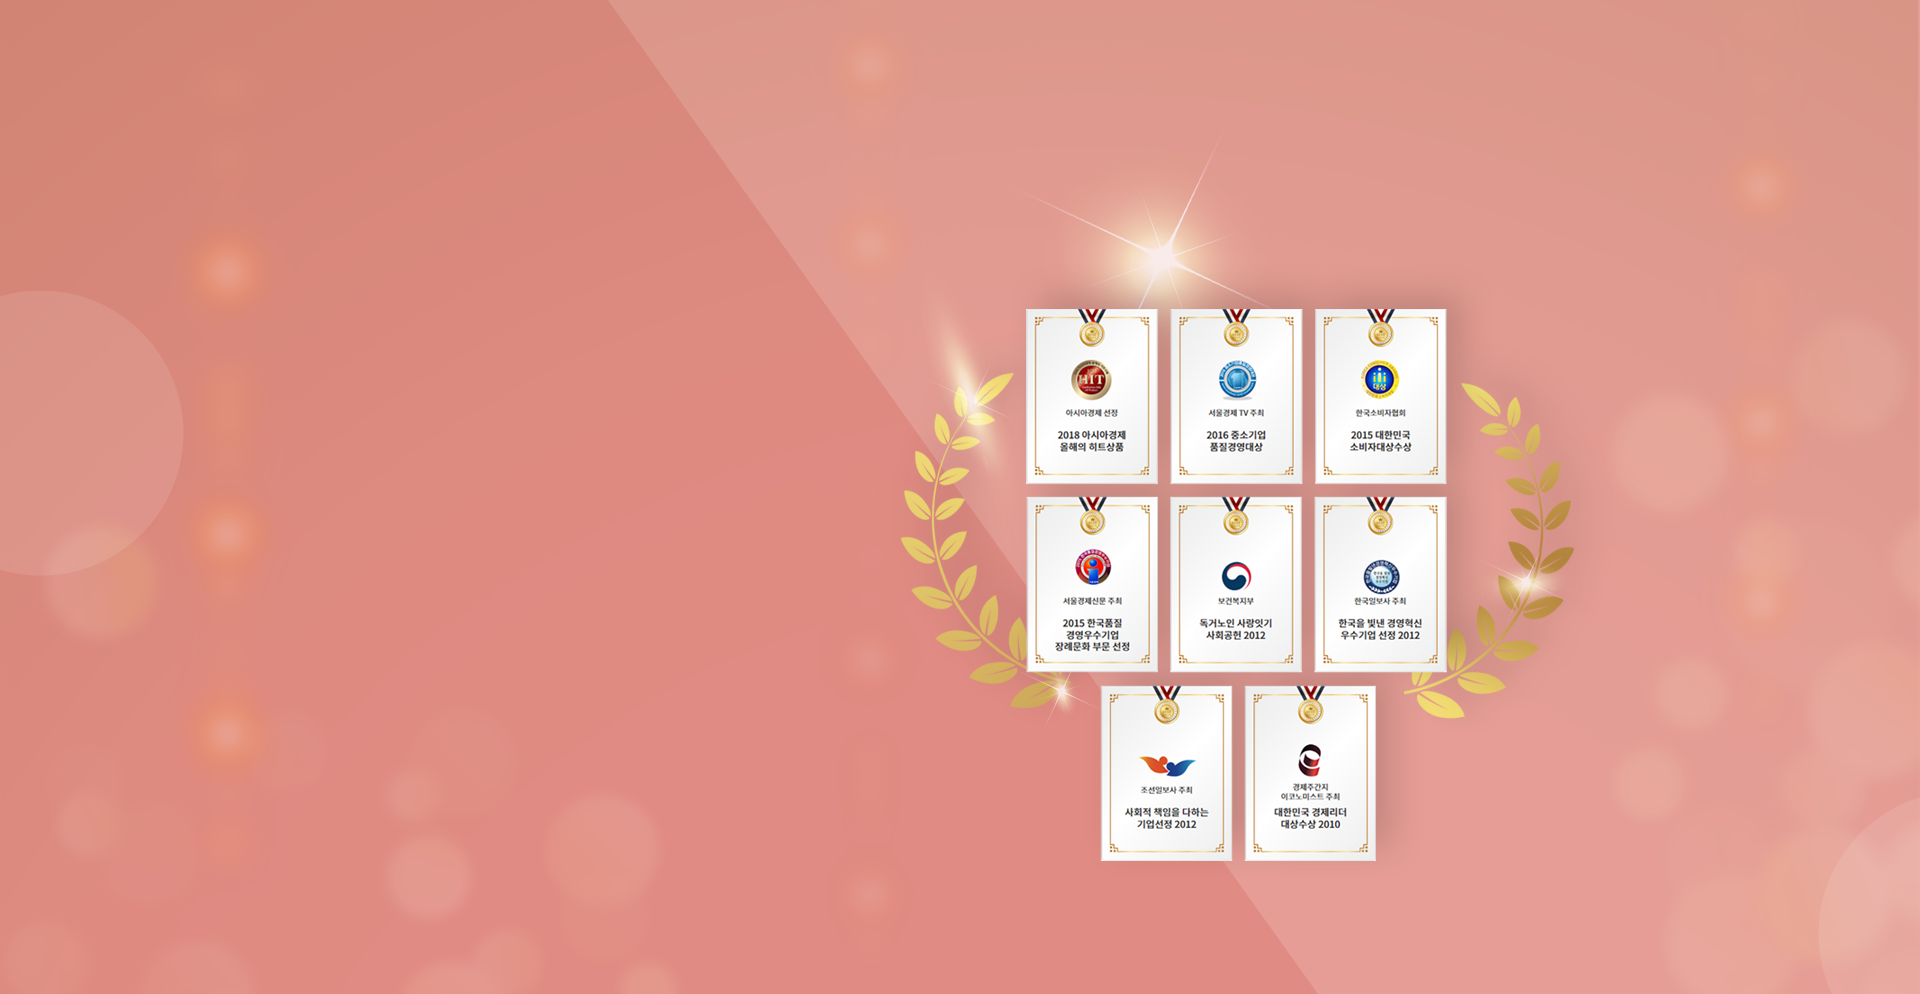
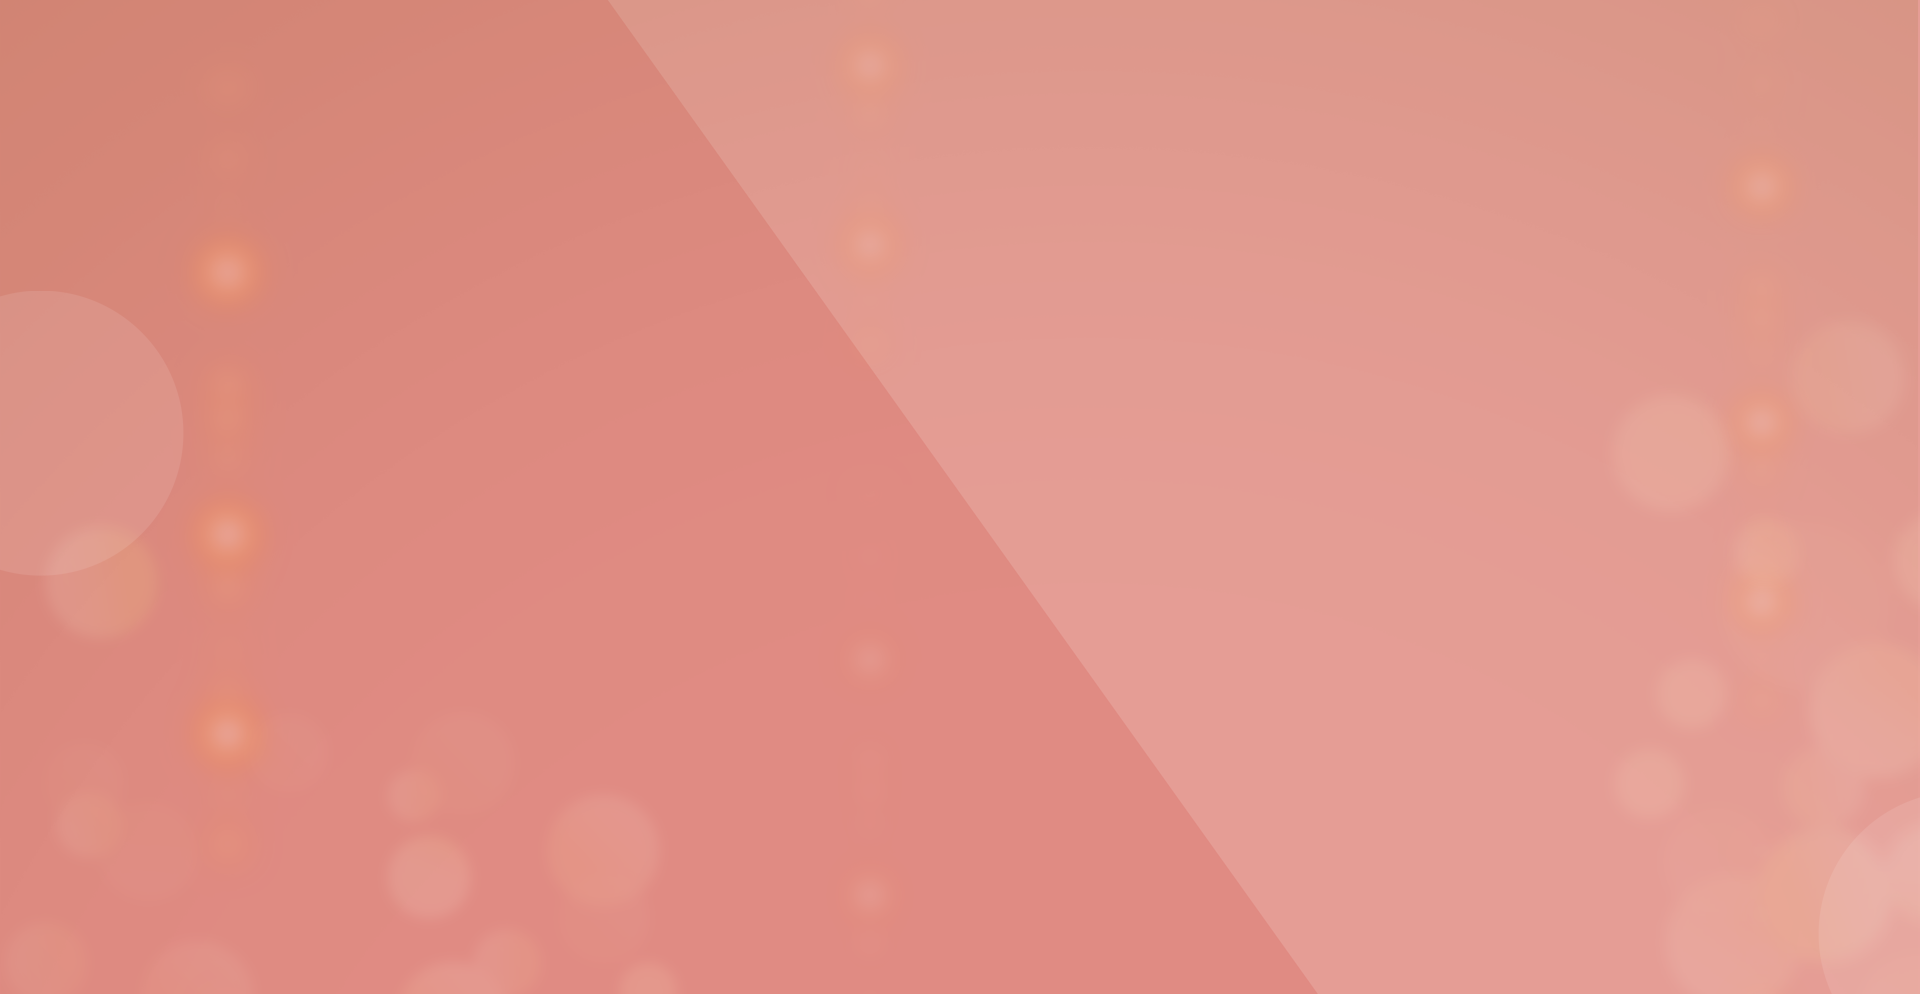
visual 영역 slider 추가

Changed region(s): [[0.4688, 0.1871, 0.8125, 0.8732]]

diff --git a/src/html/index.html b/src/html/index.html
@@ -21,14 +21,15 @@
 	<link rel="stylesheet" href="../css/styles.css">
 	<link rel="stylesheet" href="../css/main.css">
 	<script src="https://unpkg.com/swiper/swiper-bundle.min.js"></script>
+	<script src="https://code.jquery.com/jquery-3.5.1.js" integrity="sha256-QWo7LDvxbWT2tbbQ97B53yJnYU3WhH/C8ycbRAkjPDc=" crossorigin="anonymous"></script>
 </head>
 
 <body>
 	<header class="header">
 		<h1 class="logo">
 			<a href="index.html">
-				<img src="../../assets/images/logo/logo-w-aplus.png" alt="A⁺라이프" />
 				<img src="../../assets/images/logo/logo-w-hoydam.png" alt="e효담상조" />
+				<img src="../../assets/images/logo/logo-w-aplus.png" alt="A⁺라이프" />
 			</a>
 		</h1>
 		<nav class="gnb">
@@ -107,33 +108,36 @@
 					</div>
 					<div class="swiper-slide">
 						<div class="con-wrap">
-							<img src="../../assets/images/visual/slide-main-copy1.png" alt="가장튼튼한회사 자본금 255억 지급여력비율 158%">
-							<img src="../../assets/images/visual/slide-main-obj1.png" alt="e효담 홍보모델 길용우">
+							<img src="../../assets/images/visual/slide-main-copy2.png" alt="가장 정직한 회사 노잣돈 / 수고비 절대 받지 않습니다. 후불계 업계 최고 5대 품질 보증제 실시">
+							<img src="../../assets/images/visual/slide-main-obj2.png" alt="2018 아시아 경제 올해의 희트상품, 2016 중소기업 품질경영대상, 2015 대한민국 소비자대상수상, 2015 한국품질 경영 우수기업 장례문화부분 선정, 독거노인 사랑잇기 사회공헌 2012, 한국을 빛낸 경영혁신 우수기업 선정 2012, 사회적 책임을 다하는 기업선정 2012, 대한민국 경제리더 대상수상 2012">
 						</div>
 					</div>
 					<div class="swiper-slide">
 						<div class="con-wrap">
-							<img src="../../assets/images/visual/slide-main-copy1.png" alt="가장튼튼한회사 자본금 255억 지급여력비율 158%">
-							<img src="../../assets/images/visual/slide-main-obj1.png" alt="e효담 홍보모델 길용우">
+							<img src="../../assets/images/visual/slide-main-copy3.png" alt="가장 경제적인 회사 메뉴판 서비스로 30% 이상 식사비 절감">
+							<img src="../../assets/images/visual/slide-main-obj3.png" alt="메뉴 [1.커피, 음료 2.주류 3.다과류 4.식사류 5.풀세트]">
 						</div>
 					</div>
 					<div class="swiper-slide">
 						<div class="con-wrap">
-							<img src="../../assets/images/visual/slide-main-copy1.png" alt="가장튼튼한회사 자본금 255억 지급여력비율 158%">
-							<img src="../../assets/images/visual/slide-main-obj1.png" alt="e효담 홍보모델 길용우">
+							<img src="../../assets/images/visual/slide-main-copy4.png" alt="가장 믿을만한 회사 고객은 거짓말을 하지 않습니다. VIP 및 단체장과 250여개 기업으로부터 인정받은 최고의 의전품질">
+							<img src="../../assets/images/visual/slide-main-obj4.png" alt="">
 						</div>
 					</div>
 				</div>
+				<div class="swiper-pagination"></div>
 			</div>
-			<div class="customer-list con-wrap swiper-container">
-				<ul class="swiper-wrapper">
-					<li class="swiper-slide"><img src="../../assets/images/logo/samsung.png" alt="삼성전자" /></li>
-					<li class="swiper-slide"><img src="../../assets/images/logo/kia.png" alt="기아자동차" /></li>
-					<li class="swiper-slide"><img src="../../assets/images/logo/kepco.png" alt="한국전력공사" /></li>
-					<li class="swiper-slide"><img src="../../assets/images/logo/samsung.png" alt="삼성전자" /></li>
-					<li class="swiper-slide"><img src="../../assets/images/logo/kia.png" alt="기아자동차" /></li>
-					<li class="swiper-slide"><img src="../../assets/images/logo/kepco.png" alt="한국전력공사" /></li>
-				</ul>
+			<div class="customer-list con-wrap">
+				<div class="swiper-container">
+					<ul class="swiper-wrapper">
+						<li class="swiper-slide"><img src="../../assets/images/logo/samsung.png" alt="삼성전자" /></li>
+						<li class="swiper-slide"><img src="../../assets/images/logo/kia.png" alt="기아자동차" /></li>
+						<li class="swiper-slide"><img src="../../assets/images/logo/kepco.png" alt="한국전력공사" /></li>
+						<li class="swiper-slide"><img src="../../assets/images/logo/samsung.png" alt="삼성전자" /></li>
+						<li class="swiper-slide"><img src="../../assets/images/logo/kia.png" alt="기아자동차" /></li>
+						<li class="swiper-slide"><img src="../../assets/images/logo/kepco.png" alt="한국전력공사" /></li>
+					</ul>
+				</div>
 			</div>
 			<div class="achievements-list con-wrap">
 				<ul class="">
@@ -439,6 +443,6 @@
 			</ul>
 		</div>
 	</aside>
-	<script src="src/js/index.js"></script>
+	<script src="../js/main.js"></script>
 </body>
 </html>

diff --git a/src/css/main.css b/src/css/main.css
@@ -12,15 +12,34 @@
 .visual-slider .swiper-slide .con-wrap{
     position: relative;
 }
+.visual-slider .swiper-slide .con-wrap{
+    height: 100%;
+}
 .visual-slider .swiper-slide img{
     position: absolute;
+    opacity: 0;
+    transition: .8s ease .6s;
 }
+
 .visual-slider .swiper-slide img:first-child{
     left: 0;
     top: 279px;
+    z-index: 1;
+    transition-delay: 1s;
 }
 .visual-slider .swiper-slide img:last-child{
     right: 0;
+    bottom: -40px;
+    transition-duration: 1.5s;
+}
+.visual-slider .swiper-slide-active img {
+    opacity: 1;
+}
+.visual-slider .swiper-slide-active img:first-child{
+    left: 40px;
+}
+.visual-slider .swiper-slide-active img:last-child{
+    bottom: 0;
 }
 .visual-slider .swiper-slide:nth-child(1){
     background-image: url(../../assets/images/bg/bg-main-slide1.png);
@@ -34,11 +53,33 @@
 .visual-slider .swiper-slide:nth-child(4){
     background-image: url(../../assets/images/bg/bg-main-slide4.png);
 }
+.visual-slider .swiper-pagination{
+    position: absolute;
+    bottom: 336px;
+    text-align: left;
+    width: 1280px;
+    padding: 0 40px;
+    left: 50%;
+    transform: translateX(-50%);
+}
+.visual-slider .swiper-pagination span{
+    border-radius: 1px;
+    background: #fff;
+    width: 29px;
+    height: 3px;
+    margin: 0;
+    margin-right: 3px;
+}
 .customer-list{
     position: absolute;
     bottom: 208px;
     left: 50%;
     transform: translateX(-50%);
+    z-index: 10;
+}
+.customer-list .swiper-container{
+    width: 640px;
+    margin: 0;
 }
 .achievements-list{
     margin-top: -61px;

diff --git a/src/css/styles.css b/src/css/styles.css
@@ -39,6 +39,27 @@
     left: 50%;
     top: 50%;
     transform: translate(-50%, -50%);
+    opacity: 0;
+}
+.header .logo img:first-child{
+    opacity: 1;
+    animation: fade 8s ease-in 0s 1;
+    animation-iteration-count: infinite;
+}
+.header .logo img:last-child{
+    animation: fade 8s ease-in 4s 1;
+    animation-iteration-count: infinite;
+}
+@keyframes fade {
+    0%,
+    100%{
+        opacity: 0
+    }
+
+    30%,
+    70% {
+        opacity: 1
+    }
 }
 .header .gnb {
     font-size: 20px;

diff --git a/src/js/main.js b/src/js/main.js
@@ -1,0 +1,21 @@
+var mainVisual = new Swiper('.visual-slider', {
+    simulateTouch: false,
+    effect: 'fade',
+    speed: 1000,
+    pagination: {
+        el: '.swiper-pagination',
+        clickable: true,
+    },
+    autoplay: {
+        delay: 4000,
+    },
+});
+var customerList = new Swiper('.customer-list .swiper-container', {
+    simulateTouch: false,
+    slidesPerView: 3,
+    loop: true,
+    speed: 1000,
+    autoplay: {
+        delay: 2000,
+    },
+});
